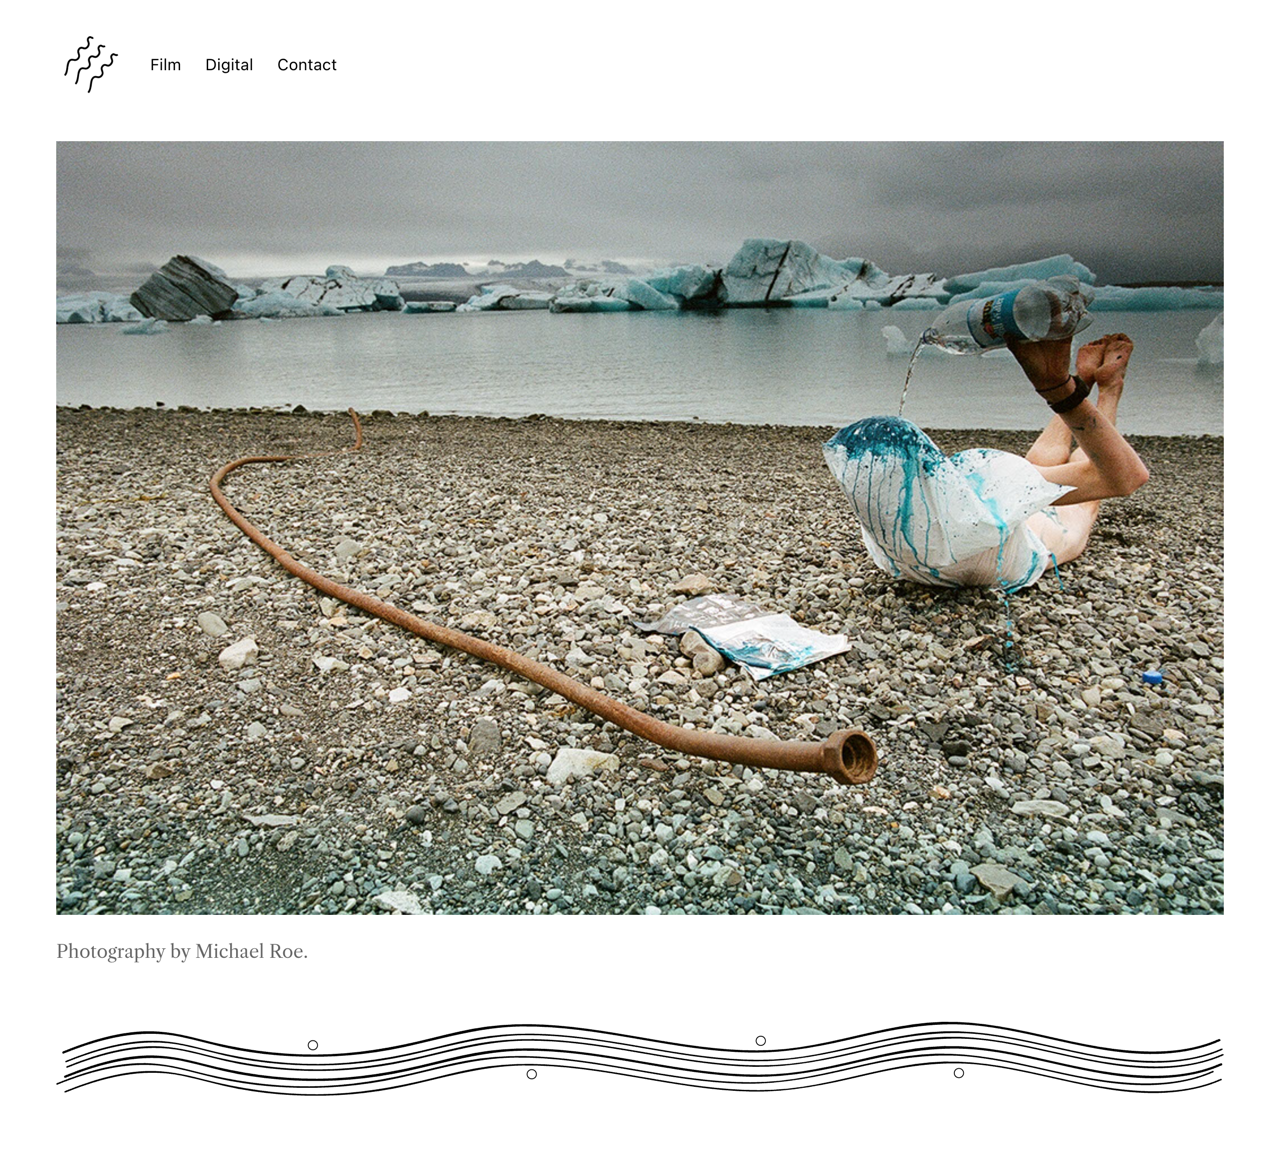
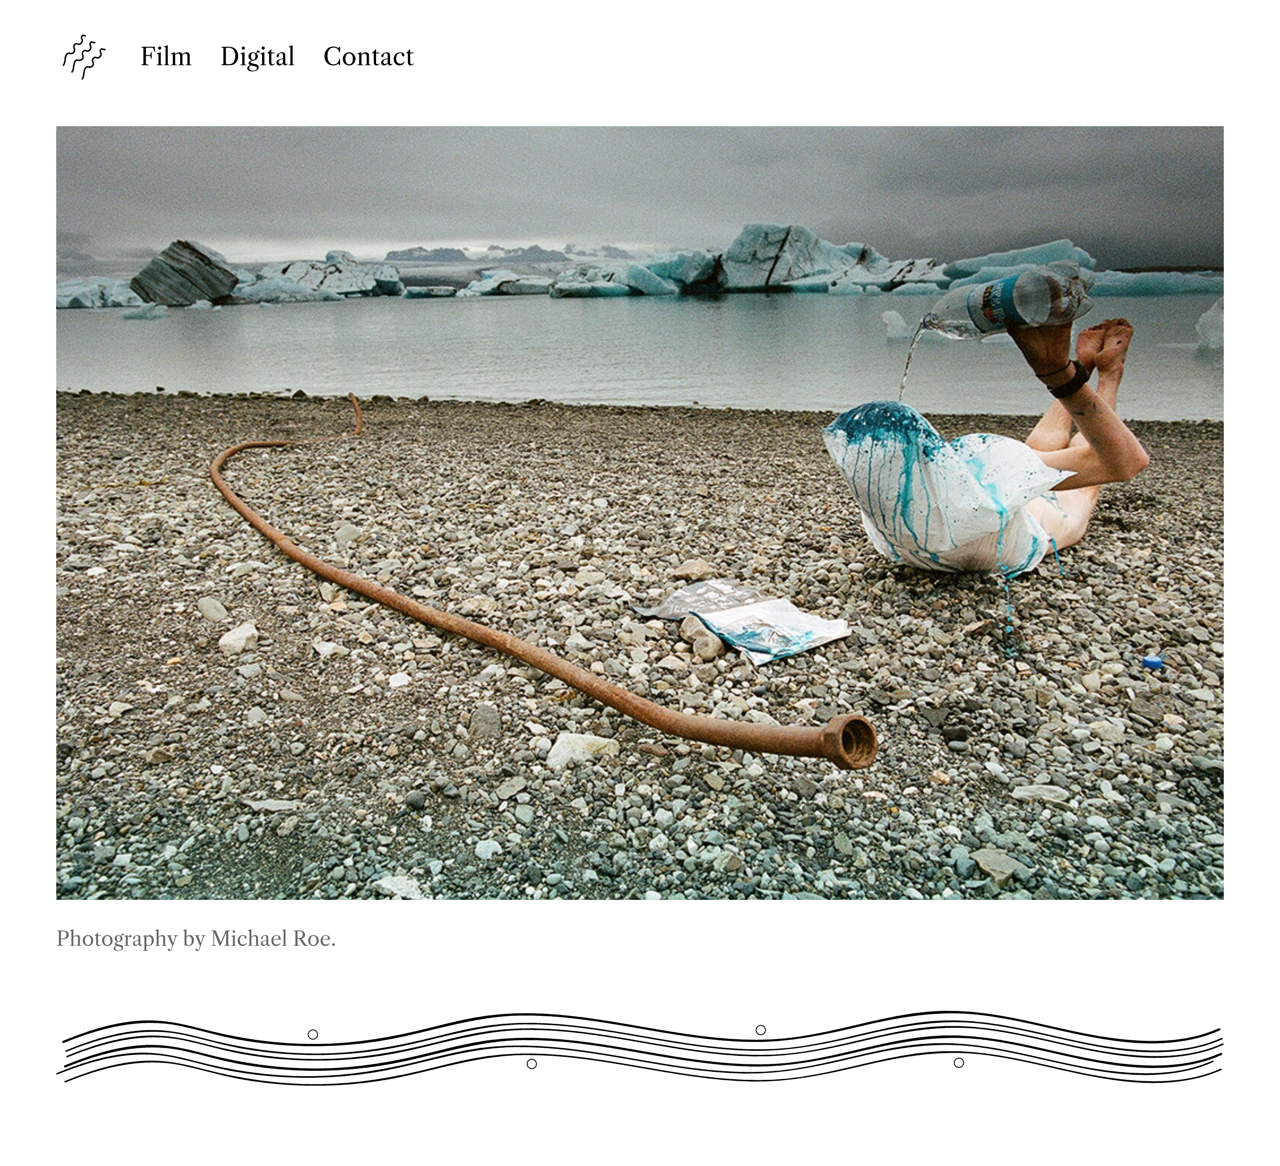
Typography pass: bigger Caslon nav, balance with wordmark
The wordmark was technically inline with the nav, but a 70px-tall
square mark next to 16px sans nav links read as misaligned — the
size disparity made it feel like two separate elements sharing a
row by accident, not a designed header.

Two changes solve it together:

1. Nav switches to Libre Caslon Text at 1.5rem (~25px). The
   original Muse nav used adobe-caslon-pro at a similar size, so
   this restores the typographic voice that was lost when I made
   the nav small sans. It also unifies the header: wordmark mark +
   Caslon nav + Caslon body text + Caslon page titles all speak
   the same visual language.

2. Wordmark trimmed to 56px (from 70px) so its visual weight is
   closer to the bigger nav text's cap-height.

Holistic typography adjustments while I was in here:
- Body: 16px -> 17px, line-height 1.5 -> 1.55. Subtle readability
  bump; the page felt cramped at 16px.
- Page title (h1): clamp(2rem, 5vw, 3.5rem) -> clamp(2.5rem, 6vw,
  4.25rem). Bigger Caslon display headings have more presence on
  the gallery pages.
- Intro paragraph: 1.125rem -> 1.25rem.
- Contact body: 1.25rem -> 1.5rem. The mailto paragraph is the
  whole page; deserves to read like real prose.

Mobile (<= 600px): nav shrinks to 1.25rem and wordmark to 44px so
the header stays compact. The two still wrap to separate lines at
phone widths because Caslon text takes more horizontal space than
sans — but at the smaller sizes the wordmark and nav read as
[…]

diff --git a/css/style.css b/css/style.css
@@ -17,8 +17,8 @@ html, body {
 
 body {
   font-family: -apple-system, BlinkMacSystemFont, "Segoe UI", Roboto, "Helvetica Neue", Arial, sans-serif;
-  font-size: 16px;
-  line-height: 1.5;
+  font-size: 17px;
+  line-height: 1.55;
   -webkit-font-smoothing: antialiased;
   -moz-osx-font-smoothing: grayscale;
 }
@@ -45,31 +45,39 @@ img { max-width: 100%; height: auto; display: block; }
   display: flex;
   align-items: center;
   flex-wrap: wrap;
-  gap: 1.5rem;
+  gap: 1.75rem;
   padding: 0.5rem 0 2.5rem;
 }
 
 .wordmark {
   display: block;
   flex-shrink: 0;
-  width: 70px;
+  width: 56px;
 }
 .wordmark img { width: 100%; height: auto; display: block; }
 
 .site-nav {
   display: flex;
   flex-wrap: wrap;
-  gap: 1.5rem;
+  align-items: center;
+  gap: 1.75rem;
 }
 .site-nav a {
-  font-family: -apple-system, BlinkMacSystemFont, "Segoe UI", Roboto, "Helvetica Neue", Arial, sans-serif;
-  font-size: 1rem;
-  letter-spacing: 0.02em;
+  font-family: "Libre Caslon Text", Georgia, "Times New Roman", serif;
+  font-size: 1.5rem;
+  letter-spacing: 0.005em;
   padding: 0.25rem 0;
 }
 .site-nav a[aria-current="page"] {
   text-decoration: underline;
-  text-underline-offset: 4px;
+  text-underline-offset: 5px;
+}
+
+@media (max-width: 600px) {
+  .site-header { gap: 1rem; padding-bottom: 2rem; }
+  .site-nav { gap: 1.1rem; }
+  .site-nav a { font-size: 1.25rem; }
+  .wordmark { width: 44px; }
 }
 
 /* --- Footer divider (decorative end-of-page mark, per original Muse layout) --- */
@@ -89,9 +97,10 @@ img { max-width: 100%; height: auto; display: block; }
 .page-title {
   font-family: "Libre Caslon Text", Georgia, "Times New Roman", serif;
   font-weight: 400;
-  font-size: clamp(2rem, 5vw, 3.5rem);
-  margin: 0 0 1.5rem;
-  letter-spacing: 0.01em;
+  font-size: clamp(2.5rem, 6vw, 4.25rem);
+  line-height: 1.1;
+  margin: 0 0 2rem;
+  letter-spacing: 0.005em;
 }
 
 /* --- Home --- */
@@ -106,7 +115,7 @@ img { max-width: 100%; height: auto; display: block; }
 
 .intro {
   font-family: "Libre Caslon Text", Georgia, "Times New Roman", serif;
-  font-size: 1.125rem;
+  font-size: 1.25rem;
   color: var(--muted);
   max-width: 50ch;
   margin: 0 0 2rem;
@@ -167,8 +176,8 @@ img { max-width: 100%; height: auto; display: block; }
 }
 .contact-body {
   font-family: "Libre Caslon Text", Georgia, "Times New Roman", serif;
-  font-size: 1.25rem;
-  line-height: 1.6;
+  font-size: 1.5rem;
+  line-height: 1.55;
   max-width: 50ch;
 }
 .contact-body a {
